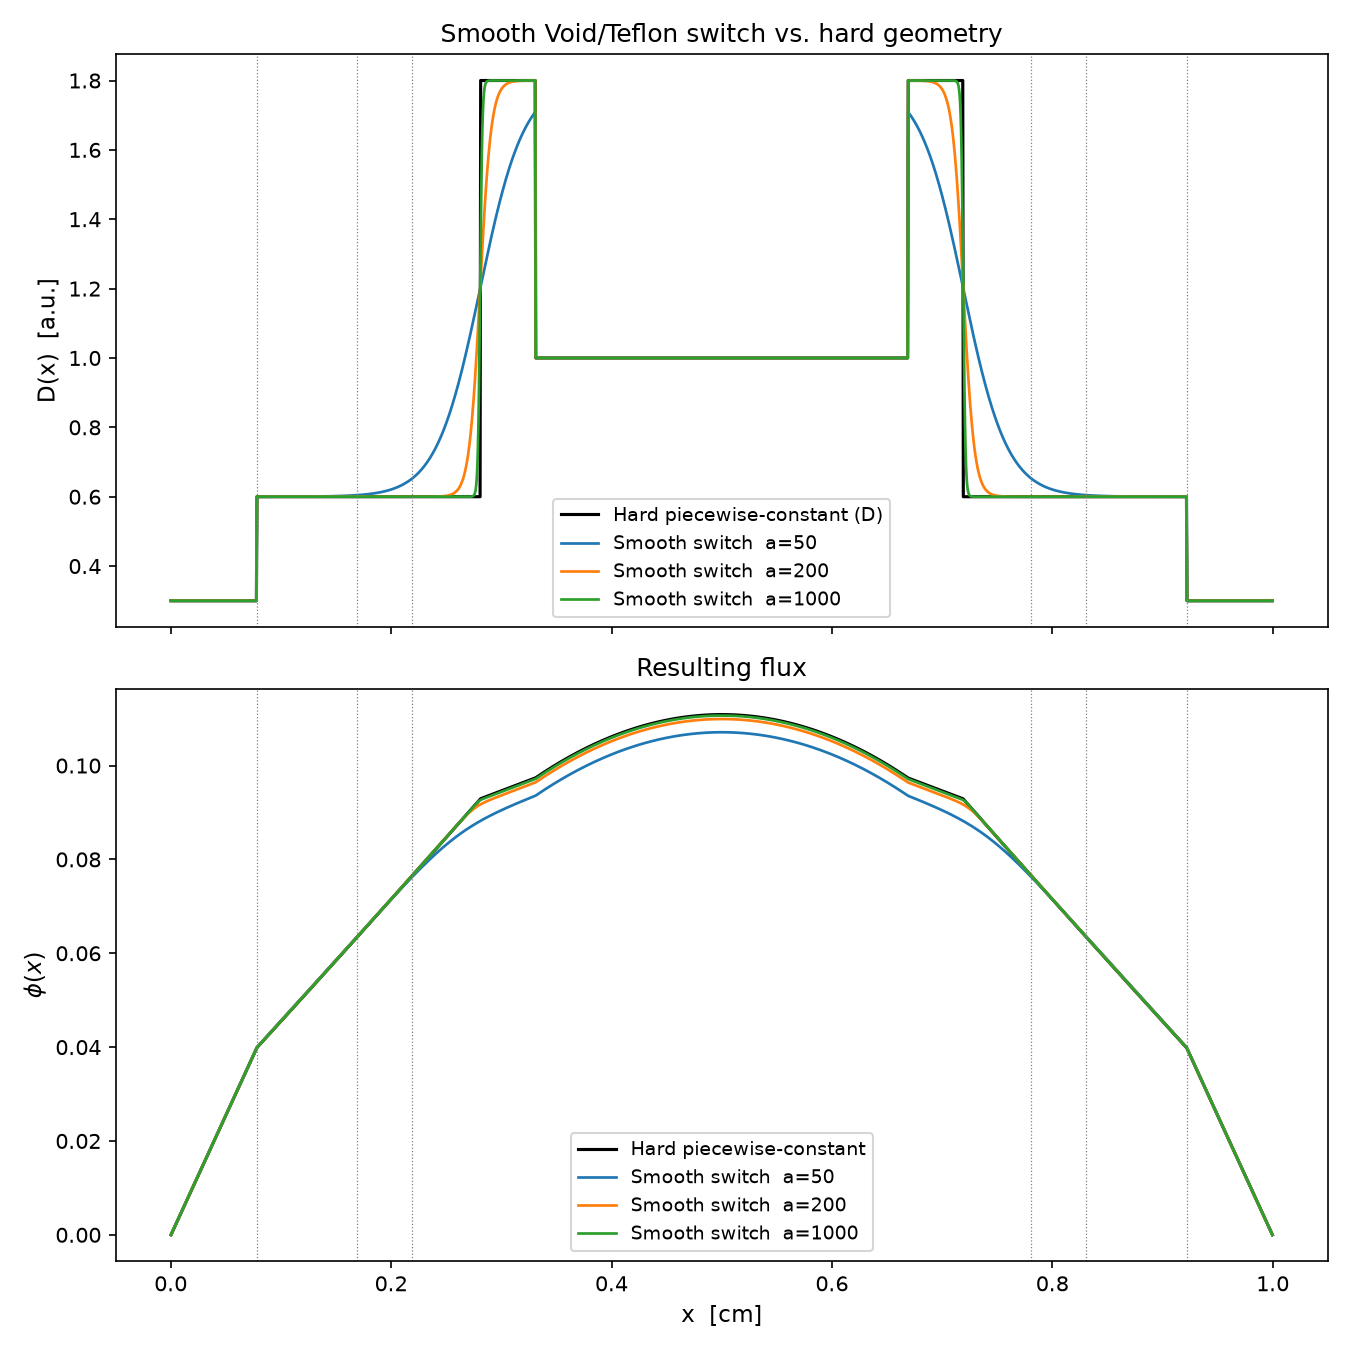
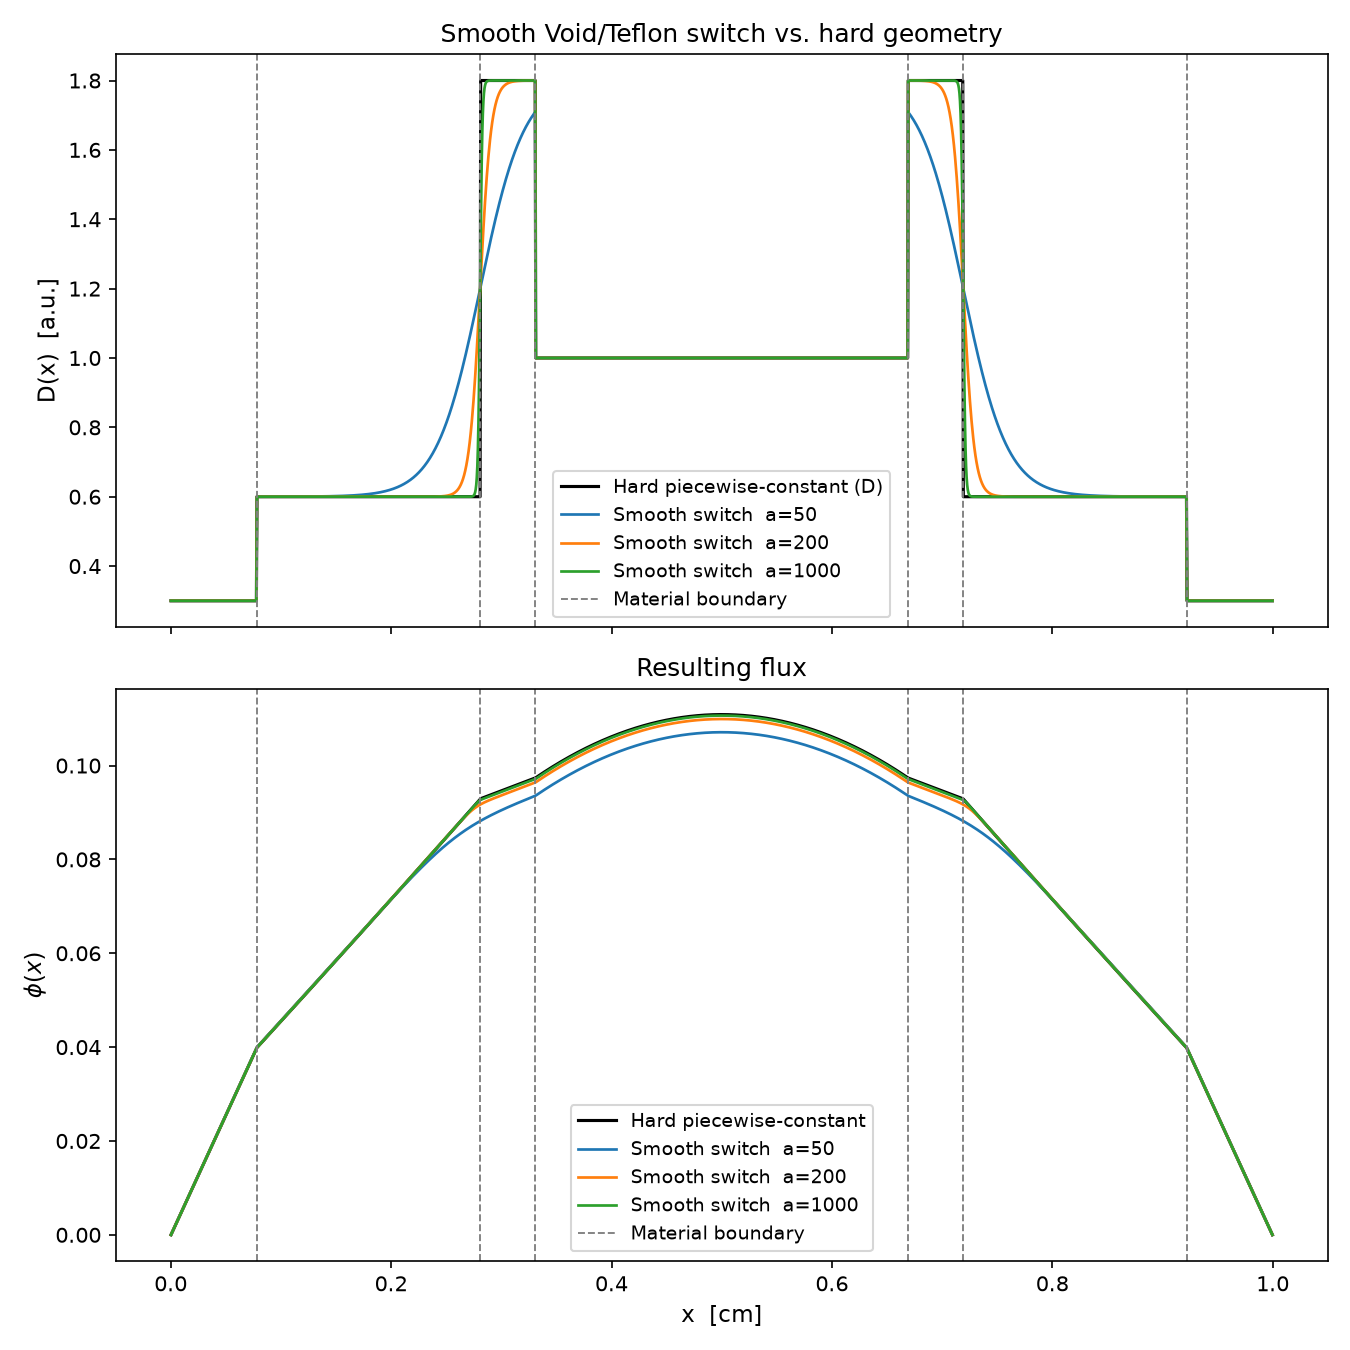
Including Vertical lines for material switches

diff --git a/sklearn_implementation/ge_gpr.py b/sklearn_implementation/ge_gpr.py
@@ -342,6 +342,45 @@ def _compute_training_gradients(
 # Standard-GPR helper (sklearn, on a specified subset)                         #
 # ──────────────────────────────────────────────────────────────────────────── #
 
+def _load_pod_artifacts(output_dir: str):
+    """
+    Load the Stage-1 SVD/POD artifacts (pod_basis.txt, coefficients_train.txt,
+    samples_train.txt, samples_test.txt, qoi_values_test.txt) shared by every
+    GE-GPR pipeline variant, normalising the single-mode/single-parameter
+    edge cases (R=1 or p=1) to 2-D arrays.
+
+    Returns
+    -------
+    Psi, alpha_train, X_tr, X_te, Y_te
+    """
+    Psi         = np.loadtxt(f"{output_dir}/pod_basis.txt",          comments='#')
+    alpha_train = np.loadtxt(f"{output_dir}/coefficients_train.txt", comments='#')
+    X_tr        = np.loadtxt(f"{output_dir}/samples_train.txt",      comments='#')
+    X_te        = np.loadtxt(f"{output_dir}/samples_test.txt",       comments='#')
+    Y_te_T      = np.loadtxt(f"{output_dir}/qoi_values_test.txt",    comments='#')
+    Y_te        = Y_te_T.T
+
+    if Psi.ndim == 1:
+        Psi = Psi[:, None]
+    if alpha_train.ndim == 1:
+        alpha_train = alpha_train[:, None]
+
+    return Psi, alpha_train, X_tr, X_te, Y_te
+
+
+def _gradients_to_standardized(G_full: np.ndarray, X_rng: np.ndarray, alpha_sig: np.ndarray) -> np.ndarray:
+    """
+    Chain-rule adjoint gradients ∂α_k/∂µ_j into the standardised/normalised
+    training space shared by GE-GPR:
+
+        z_k = (α_k − μ_k) / σ_k,   x_j = (µ_j − lo_j) / rng_j
+        ∂z_k/∂x_j = (∂α_k/∂µ_j) · rng_j / σ_k
+
+    G_full : (M, R, p)  ->  returns (M, R, p) in (z, x) space.
+    """
+    return G_full * X_rng[None, None, :] / alpha_sig[None, :, None]
+
+
 def _make_sklearn_kernel(p_active: int):
     return (
         ConstantKernel(constant_value=1.0, constant_value_bounds=(1e-3, 1e3))
@@ -452,17 +491,7 @@ def main(
     # 1. Load SVD/POD artifacts                                          #
     # ------------------------------------------------------------------ #
     print("\nStep 1: Loading SVD/POD artifacts")
-    Psi         = np.loadtxt(f"{output_dir}/pod_basis.txt",          comments='#')
-    alpha_train = np.loadtxt(f"{output_dir}/coefficients_train.txt", comments='#')
-    X_tr        = np.loadtxt(f"{output_dir}/samples_train.txt",      comments='#')
-    X_te        = np.loadtxt(f"{output_dir}/samples_test.txt",       comments='#')
-    Y_te_T      = np.loadtxt(f"{output_dir}/qoi_values_test.txt",    comments='#')
-    Y_te        = Y_te_T.T          # (Ny, M_te)
-
-    if Psi.ndim == 1:
-        Psi = Psi[:, None]
-    if alpha_train.ndim == 1:
-        alpha_train = alpha_train[:, None]
+    Psi, alpha_train, X_tr, X_te, Y_te = _load_pod_artifacts(output_dir)
 
     Ny, R   = Psi.shape
     M_tr, p = X_tr.shape
@@ -529,12 +558,8 @@ def main(
 
     # ------------------------------------------------------------------ #
     # 4. Chain-rule: convert gradients to standardised/normalised spaces #
-    #                                                                     #
-    #   z_k = (α_k − μ_k) / σ_k      x_j = (µ_j − lo_j) / rng_j       #
-    #   ∂z_k/∂x_j = (∂α_k/∂µ_j) · rng_j / σ_k                          #
     # ------------------------------------------------------------------ #
-    # G_z_norm[i, k, j] = G_full[i, k, j] * X_rng[j] / alpha_sig[k]
-    G_z_norm = G_full * X_rng[None, None, :] / alpha_sig[None, :, None]
+    G_z_norm = _gradients_to_standardized(G_full, X_rng, alpha_sig)
     # Shape: (m_ge, R, p);  restrict to active dims for GE-GPR
     G_act_z_norm = G_z_norm[:, :, active_idx]   # (m_ge, R, p_act)
 
@@ -792,7 +817,15 @@ def _plot_parity(alpha_te_true, alpha_ge_pred, alpha_std_pred, R, m_ge, output_d
     plt.close(fig)
 
 
-def _plot_flux_samples(Y_te, Y_ge_pred, Y_std_pred, eps_ge, eps_std, x_qoi, output_dir):
+def _plot_flux_samples(Y_te, Y_ge_pred, Y_std_pred, eps_ge, eps_std, x_qoi, output_dir, switch_x=None):
+    """
+    switch_x : optional sequence, one array of x-locations per plotted
+    sample marking where that sample's own material composition switches
+    (e.g. the moving Void/Teflon interface and any fixed boundaries that
+    also fall in view). Locations outside x_qoi's range are skipped --
+    i.e. drawn only when relevant to what that sample's panel actually
+    shows. An empty array for a sample draws nothing.
+    """
     n_plot = min(4, Y_te.shape[1])
     fig, axes = plt.subplots(1, n_plot, figsize=(4.5 * n_plot, 4.2), sharey=False)
     if n_plot == 1:
@@ -802,6 +835,12 @@ def _plot_flux_samples(Y_te, Y_ge_pred, Y_std_pred, eps_ge, eps_std, x_qoi, outp
         ax.plot(x_qoi, Y_te[:, idx],      'k-',  lw=2.0, label=r'True $y(\mu)$')
         ax.plot(x_qoi, Y_ge_pred[:, idx], 'b--', lw=1.5, label=r'GE-GPR $\hat{y}$')
         ax.plot(x_qoi, Y_std_pred[:, idx],'r:',  lw=1.5, label=r'Std-GPR $\hat{y}$')
+        if switch_x is not None:
+            for j, xs in enumerate(
+                x for x in switch_x[idx] if x_qoi.min() <= x <= x_qoi.max()
+            ):
+                ax.axvline(xs, color='gray', ls='--', lw=1.0,
+                           label='Material switch' if j == 0 else None)
         ax.set_xlabel('x  [cm]', fontsize=10)
         ax.set_ylabel(r'$\phi(x;\mu)$', fontsize=10)
         ax.set_title(

diff --git a/void_teflon_geometry/ge_gpr_geometry.py b/void_teflon_geometry/ge_gpr_geometry.py
@@ -50,8 +50,10 @@ from second_order_solver import build_mesh                            # noqa: E4
 from adjoint_solver import build_adjoint_rhs, solve_adjoint            # noqa: E402
 from params import GeometryParamSampler                                # noqa: E402
 from adjoint_geometry import _forward_system, sensitivity_wrt_param    # noqa: E402
+from geometry import material_boundaries                               # noqa: E402
 from ge_gpr import (                                                   # noqa: E402
     GEGaussianProcess, _make_sklearn_kernel, _default_lc_sizes,
+    _load_pod_artifacts, _gradients_to_standardized,
     _plot_error_comparison, _plot_parity, _plot_flux_samples, _plot_learning_curve,
 )
 
@@ -154,17 +156,7 @@ def main(
     # 1. Load SVD/POD artifacts                                          #
     # ------------------------------------------------------------------ #
     print("\nStep 1: Loading SVD/POD artifacts")
-    Psi         = np.loadtxt(f"{output_dir}/pod_basis.txt",          comments='#')
-    alpha_train = np.loadtxt(f"{output_dir}/coefficients_train.txt", comments='#')
-    X_tr        = np.loadtxt(f"{output_dir}/samples_train.txt",      comments='#')
-    X_te        = np.loadtxt(f"{output_dir}/samples_test.txt",       comments='#')
-    Y_te_T      = np.loadtxt(f"{output_dir}/qoi_values_test.txt",    comments='#')
-    Y_te        = Y_te_T.T
-
-    if Psi.ndim == 1:
-        Psi = Psi[:, None]
-    if alpha_train.ndim == 1:
-        alpha_train = alpha_train[:, None]
+    Psi, alpha_train, X_tr, X_te, Y_te = _load_pod_artifacts(output_dir)
 
     Ny, R   = Psi.shape
     M_tr, p = X_tr.shape
@@ -230,7 +222,7 @@ def main(
     # Chain rule to standardised/normalised space (b's constant shift by
     # core_radius has zero derivative, so this is identical whether the
     # second input dimension is called void_thickness or b).
-    G_z_norm = G_full * X_rng[None, None, :] / alpha_sig[None, :, None]
+    G_z_norm = _gradients_to_standardized(G_full, X_rng, alpha_sig)
     G_act_z_norm = G_z_norm[:, :, active_idx]
 
     # ------------------------------------------------------------------ #
@@ -356,14 +348,25 @@ def main(
     # 7. Plots (generic ones reused unchanged from sklearn_implementation) #
     # ------------------------------------------------------------------ #
     print("\nStep 7: Generating plots")
+    vt_col = sampler.param_names.index("void_thickness")
+    a_col  = sampler.param_names.index("steepness")
+
+    # Each plotted test sample has its own material boundaries (the moving
+    # Void/Teflon interface plus any fixed boundaries); pass through all of
+    # them that actually fall inside the QoI window.
+    n_flux_plot = min(4, M_te)
+    switch_x = []
+    for i in range(n_flux_plot):
+        boundaries = material_boundaries(L, core_radius, shell_width, void_thickness=X_te[i, vt_col])
+        in_window = boundaries[(boundaries >= QOI_XMIN) & (boundaries <= QOI_XMAX)]
+        switch_x.append(in_window)
+
     _plot_error_comparison(eps_ge, eps_std, eps_proj, m_ge, R, output_dir)
     _plot_parity(alpha_te_true, alpha_ge_pred, alpha_std_pred, R, m_ge, output_dir)
-    _plot_flux_samples(Y_te, Y_ge_pred, Y_std_pred, eps_ge, eps_std, x_qoi, output_dir)
+    _plot_flux_samples(Y_te, Y_ge_pred, Y_std_pred, eps_ge, eps_std, x_qoi, output_dir, switch_x=switch_x)
     if lc_results:
         _plot_learning_curve(lc_results, output_dir)
 
-    vt_col = sampler.param_names.index("void_thickness")
-    a_col  = sampler.param_names.index("steepness")
     b_te = core_radius + X_te[:, vt_col]
     a_te = X_te[:, a_col]
     _plot_error_map_ab(b_te, a_te, eps_ge, eps_std, m_ge, output_dir)

diff --git a/void_teflon_geometry/svd_analysis_geometry.py b/void_teflon_geometry/svd_analysis_geometry.py
@@ -30,6 +30,7 @@ sys.path.insert(0, os.path.join(os.path.dirname(__file__), '..', 'common'))
 from second_order_solver import build_mesh           # noqa: E402
 from geometry import solve_void_teflon               # noqa: E402
 from params import GeometryParamSampler              # noqa: E402
+from plotting import draw_material_boundaries        # noqa: E402
 
 
 def _mu_label(mu, sampler, fmt="{name}={val:.4g}"):
@@ -144,8 +145,18 @@ def main(
     # (falls back to void_thickness if nothing is active).
     sort_col = sampler.param_names.index(sampler.active_names[0]) if sampler.active_names else 0
     order = np.argsort(X_tr[ex_idx, sort_col])
+    vt_col = sampler.param_names.index("void_thickness")
+    drew_interface_label = False
     for k, idx in zip(range(N_EXAMPLES), ex_idx[order]):
         ax.plot(x_qoi, Y_tr[:, idx], color=colors[k], lw=1.4, label=_mu_label(X_tr[idx], sampler))
+        # Each snapshot has its own Void/Teflon interface location; only
+        # drawn when it actually falls inside the plotted QoI window.
+        drawn = draw_material_boundaries(
+            ax, L, core_radius, shell_width, void_thickness=X_tr[idx, vt_col],
+            xlim=(QOI_XMIN, QOI_XMAX), color=colors[k], ls='--', lw=1.0,
+            label='Void/Teflon interface' if not drew_interface_label else None,
+        )
+        drew_interface_label = drew_interface_label or len(drawn) > 0
 
     ax.axvline(QOI_XMIN, color='k', ls='--', lw=1.0, label='QoI boundary')
     ax.axvline(QOI_XMAX, color='k', ls='--', lw=1.0)

diff --git a/void_teflon_geometry/plotting.py b/void_teflon_geometry/plotting.py
@@ -1,0 +1,35 @@
+"""
+Shared plotting helper for the void_teflon_geometry scripts.
+
+Collects the one piece of visual logic several scripts here repeat: marking
+where the slab's material composition switches (Core/shell, Teflon/Shield,
+and -- when relevant to the plot -- the moving Void/Teflon interface) with a
+dashed vertical line.
+"""
+
+import os
+import sys
+
+sys.path.insert(0, os.path.dirname(__file__))
+from geometry import material_boundaries  # noqa: E402
+
+
+def draw_material_boundaries(
+    ax, L, core_radius, shell_width, void_thickness=None,
+    xlim=None, color='gray', ls='--', lw=0.9, label='Material boundary',
+):
+    """
+    Draw a dashed vertical line at every material boundary that actually
+    falls inside xlim (default: the axes' current x-limits, so call this
+    after the data is plotted / axes are autoscaled) -- i.e. only the
+    switches that are relevant to what this plot is showing. Only the
+    first drawn line gets a legend label.
+
+    Returns the x-locations that were drawn (possibly empty).
+    """
+    lo, hi = xlim if xlim is not None else ax.get_xlim()
+    xs = material_boundaries(L, core_radius, shell_width, void_thickness)
+    xs = xs[(xs >= lo) & (xs <= hi)]
+    for i, x in enumerate(xs):
+        ax.axvline(x, color=color, ls=ls, lw=lw, label=label if i == 0 else None)
+    return xs

diff --git a/void_teflon_geometry/geometry.py b/void_teflon_geometry/geometry.py
@@ -170,6 +170,30 @@ def assign_void_teflon_properties(
     return D, Sigma_a, q, ab
 
 
+def material_boundaries(L, core_radius, shell_width, void_thickness=None):
+    """
+    x-locations where the mirrored slab's material composition switches.
+
+    Always includes the fixed Core/shell boundary (r = core_radius) and the
+    fixed Teflon/Shield boundary (r = core_radius + shell_width); when
+    void_thickness is given, also includes the moving Void/Teflon
+    interface (r = core_radius + void_thickness) -- the same radii
+    void_teflon_field() steps at. Each radius is reflected about the slab
+    center (x = L/2) to give both x = center - r and x = center + r.
+
+    Returns
+    -------
+    (N,) sorted x-locations, N = 4 (fixed boundaries only) or 6 (with the
+    moving Void/Teflon interface).
+    """
+    center = 0.5 * L
+    radii = [core_radius, core_radius + shell_width]
+    if void_thickness is not None:
+        radii.append(core_radius + void_thickness)
+    radii = np.asarray(radii, dtype=float)
+    return np.sort(np.concatenate([center - radii, center + radii]))
+
+
 def solve_void_teflon(
     L: float,
     n_cells: int,

diff --git a/void_teflon_geometry/demo_switch.py b/void_teflon_geometry/demo_switch.py
@@ -26,6 +26,7 @@ from second_order_solver import build_mesh, assign_material_properties, assemble
 from scipy.sparse.linalg import spsolve
 
 from geometry import void_teflon_field, solve_void_teflon
+from plotting import draw_material_boundaries
 
 # ------------------------------------------------------------------ #
 # Geometry (matches data/constantR_void_10/void.py)                  #
@@ -100,11 +101,8 @@ for steepness in steepnesses:
     )
     ax_flux.plot(x_c, phi_smooth, lw=1.3, label=f'Smooth switch  a={steepness}')
 
-for xb in (core_radius, core_radius + void_thickness,
-           L - core_radius - void_thickness, L - core_radius,
-           shield_thickness, L - shield_thickness):
-    ax_mat.axvline(xb, color='gray', ls=':', lw=0.6)
-    ax_flux.axvline(xb, color='gray', ls=':', lw=0.6)
+draw_material_boundaries(ax_mat, L, core_radius, shell_width, void_thickness, xlim=(0.0, L))
+draw_material_boundaries(ax_flux, L, core_radius, shell_width, void_thickness, xlim=(0.0, L))
 
 ax_mat.set_ylabel('D(x)  [a.u.]', fontsize=11)
 ax_mat.set_title('Smooth Void/Teflon switch vs. hard geometry', fontsize=12)
